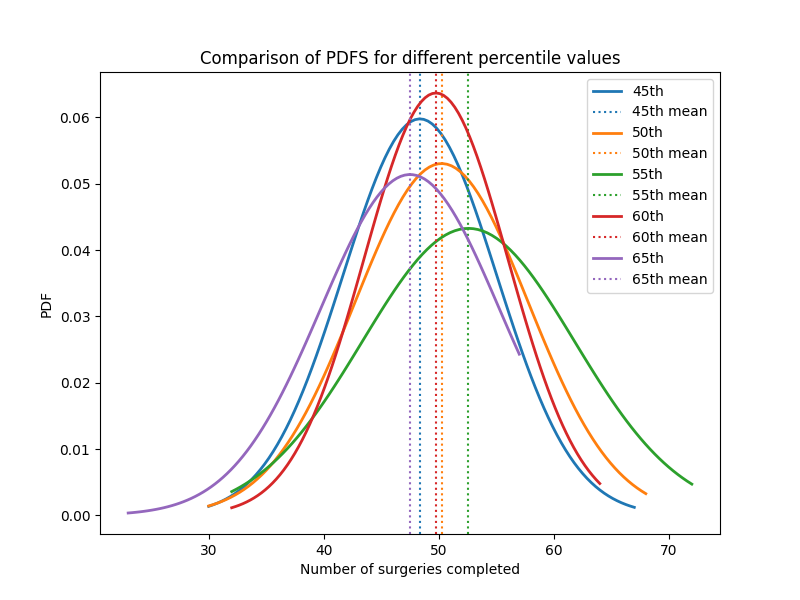
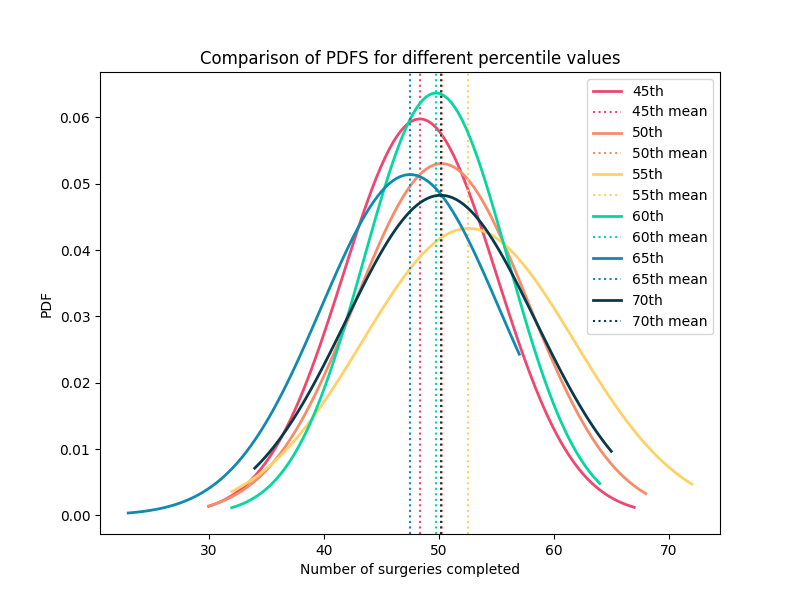
includes 70th normal distribution

diff --git a/brodie_perrie_code/plotting.py b/brodie_perrie_code/plotting.py
@@ -69,12 +69,13 @@ def plot_normal(data, label, colour, column):
 
 plt.figure(figsize=(8, 6))
 column = 'num_surgeries_completed'
-colours = ['#1f77b4', '#ff7f0e', '#2ca02c', '#d62728', '#9467bd']
+colours = ['#ef476f', '#f78c6b', '#ffd166', '#06d6a0', '#118ab2', '#073b4c']
 plot_normal(data1, label="45th", colour=colours[0], column=column)
 plot_normal(data2, label="50th", colour=colours[1], column=column)
 plot_normal(data3, label="55th", colour=colours[2], column=column)
 plot_normal(data4, label="60th", colour=colours[3], column=column)
 plot_normal(data5, label="65th", colour=colours[4], column=column)
+plot_normal(data6, label="70th", colour=colours[5], column=column)
 
 plt.title("Comparison of PDFS for different percentile values")
 plt.ylabel("PDF")
